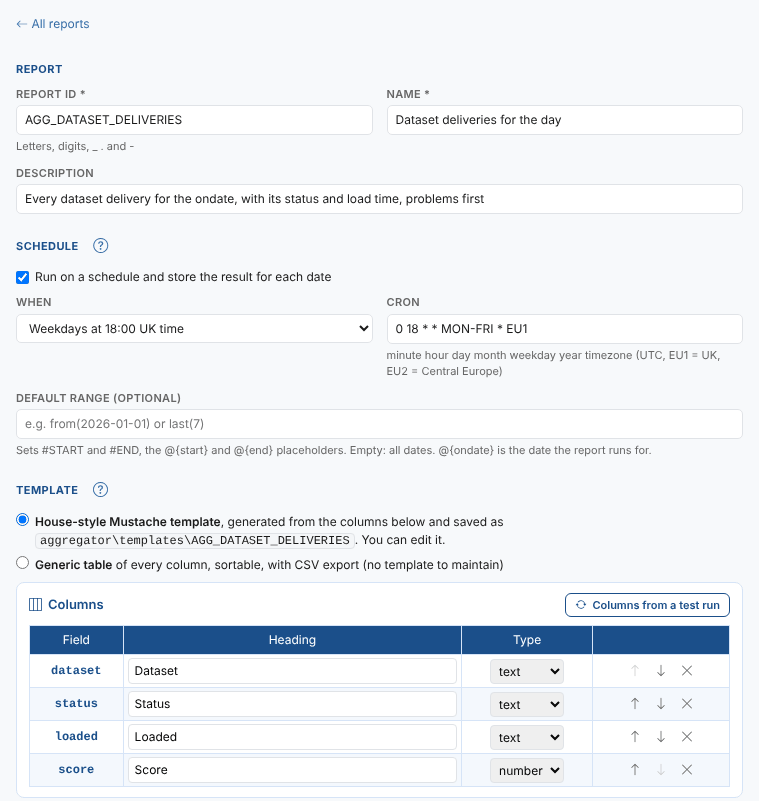
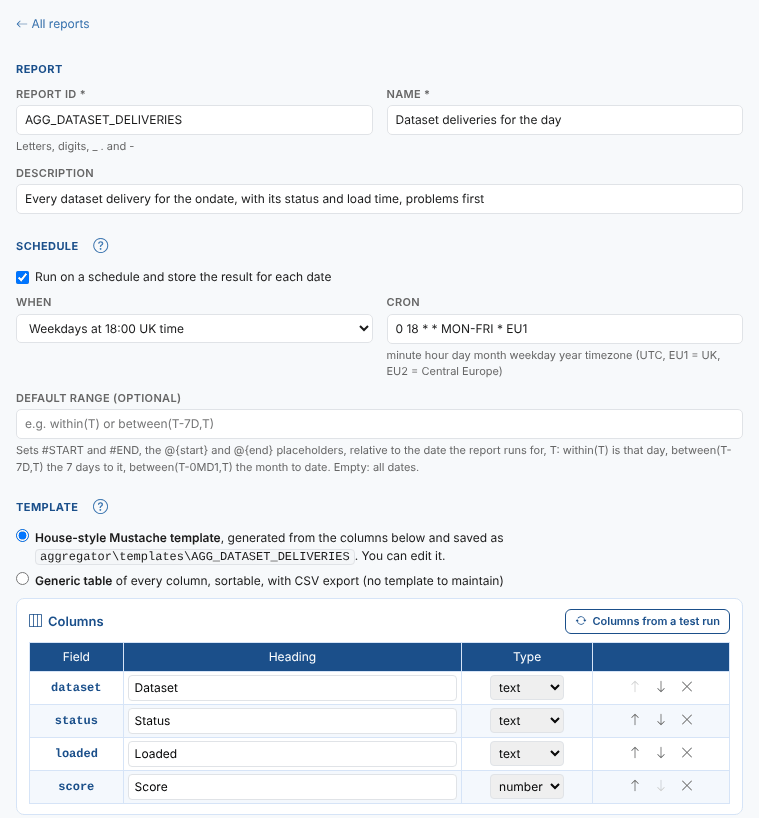
range in aggregator

diff --git a/docs/extensions/aggregator/06-schedule-and-email.md b/docs/extensions/aggregator/06-schedule-and-email.md
@@ -35,7 +35,31 @@ Untick the box to stop the schedule. The report and its stored dates are kept, a
 
 ### Default range
 
-The **Default range** sets the start and end dates, `#START` and `#END`, that the `@{start}` and `@{end}` placeholders take, for example `from(2026-01-01)` or `last(7)`. Leave it empty for all dates. Northgate Energy's aggregation only uses `@{ondate}`, the date the report runs for, so its range is empty.
+The **Default range** sets the start and end dates, `#START` and `#END`, that the `@{start}` and `@{end}` placeholders take each time the report runs. It is a date range, written relative to the date the report runs for, which is `T`:
+
+| Default range | `@{start}` | `@{end}` | For a report on 15 October 2026 |
+|-|-|-|-|
+| `within(T)` | The ondate | The ondate | 2026-10-15 to 2026-10-15 |
+| `within(T-1D)` | The day before | The day before | 2026-10-14 to 2026-10-14 |
+| `between(T-1B,T)` | The business day before | The ondate | 2026-10-14 to 2026-10-15 |
+| `between(T-7D,T)` | 7 days before | The ondate | 2026-10-08 to 2026-10-15 |
+| `between(T-0MD1,T)` | The first of the month | The ondate | 2026-10-01 to 2026-10-15 |
+| `from(2026-01-01)` | 1 January 2026 | Today | 2026-01-01 to the day it runs |
+| Empty | 1 January 1900 | 31 December 2999 | Every date |
+
+`@{start}` and `@{end}` are dates, written as `yyyy-mm-dd`, so a stage that compares them with a timestamp adds the time of day. This keeps everything from the start of the first day to the end of the last:
+
+```json
+{"timestamp": {"$gte": "@{start}T00:00:00", "$lte": "@{end}T23:59:59"}}
+```
+
+With `within(T)`, that is the whole of the day the report runs for.
+
+:::caution
+The default range is not a stage, so placeholders and `#ONDATE` cannot be used in it: `@{ondate}` or `#ONDATE` there stops the report with **Cannot parse ... as a date**. Write `T` for the ondate. Do not use `last(7)` either: for a report it starts in 1970 and ends today. The report editor refuses both.
+:::
+
+Northgate Energy's aggregation only uses `@{ondate}`, the date the report runs for, so its range is empty. **Preview** runs the report with the default range for the **Ondate** test date in the toolbar, so you can check a range before you save it.
 
 ---
 

diff --git a/docs/extensions/aggregator/09-reference.md b/docs/extensions/aggregator/09-reference.md
@@ -37,7 +37,7 @@ The fields the Aggregator sets on a report:
 | `expression` | `aggregate_dataset_deliveries(#ONDATE, #START, #END, #REPORT)` | What the report runs. Reports saved before report properties have `(#ONDATE, #START, #END)`, which still works and is updated the next time the report is saved. |
 | `template` | `aggregator\templates\AGG_DATASET_DELIVERIES` | How a stored date is shown |
 | `cron`, `enabled` | `0 18 * * MON-FRI * EU1`, `true` | The schedule, and whether it is on |
-| `defaultRange` | Empty | Sets `#START` and `#END` |
+| `defaultRange` | Empty, or `within(T)` | Sets `#START` and `#END`, relative to the ondate `T`. See [Default range](/docs/extensions/aggregator/schedule-and-email#default-range). |
 | `cacheOptions` | `OnDemand`, private | Each run is stored for its date |
 | `properties.aggregator` | | The aggregation key, the template mode, the columns, and the email settings and automation |
 | `properties.NAME` | `properties.datasets`: `^ICE_` | The value of a report property placeholder, `@{NAME}`. `currency`, `units` and `timezone` are set on the report itself instead. |
@@ -70,4 +70,5 @@ The fields the Aggregator sets on a report:
 | **@&#123;name&#125; is a report setting, not a report property** | The placeholder's name is one of the report's own settings. Choose another name. |
 | **... cannot contain double quotes, backslashes or line breaks** | A report property's value, or its test value, is put into the stage as text. Leave those characters out. |
 | A report ignores a report property | Check the report sets it, under **Report properties** in the report editor or on the Reports screen tab, and that the name matches the placeholder exactly, including upper and lower case. |
+| **Cannot parse ... as a date** when a report runs | The report's default range is not a date range the platform can read, often `@{ondate}` or `#ONDATE`. Use `within(T)` for the ondate. See [Default range](/docs/extensions/aggregator/schedule-and-email#default-range). |
 | A template shows nothing for a field | The field name has characters a template cannot read, such as spaces. Rename it with `$project`. |

diff --git a/docs/extensions/aggregator/02-how-it-works.md b/docs/extensions/aggregator/02-how-it-works.md
@@ -90,7 +90,7 @@ Three placeholders can be used inside any string value of a stage:
 | Placeholder | In the workspace | In a report |
 |-|-|-|
 | `@{ondate}` | The **Ondate** test date in the toolbar | The date the report runs for |
-| `@{start}` | The **Start** test date | The start of the report's default range |
+| `@{start}` | The **Start** test date | The start of the report's [default range](/docs/extensions/aggregator/schedule-and-email#default-range), such as `within(T)` for the ondate itself |
 | `@{end}` | The **End** test date | The end of the report's default range |
 
 Each is replaced with the date written as `yyyy-mm-dd`. Northgate Energy's `$match` uses `@{ondate}`, so the same aggregation lists the deliveries of whichever day it runs for:
